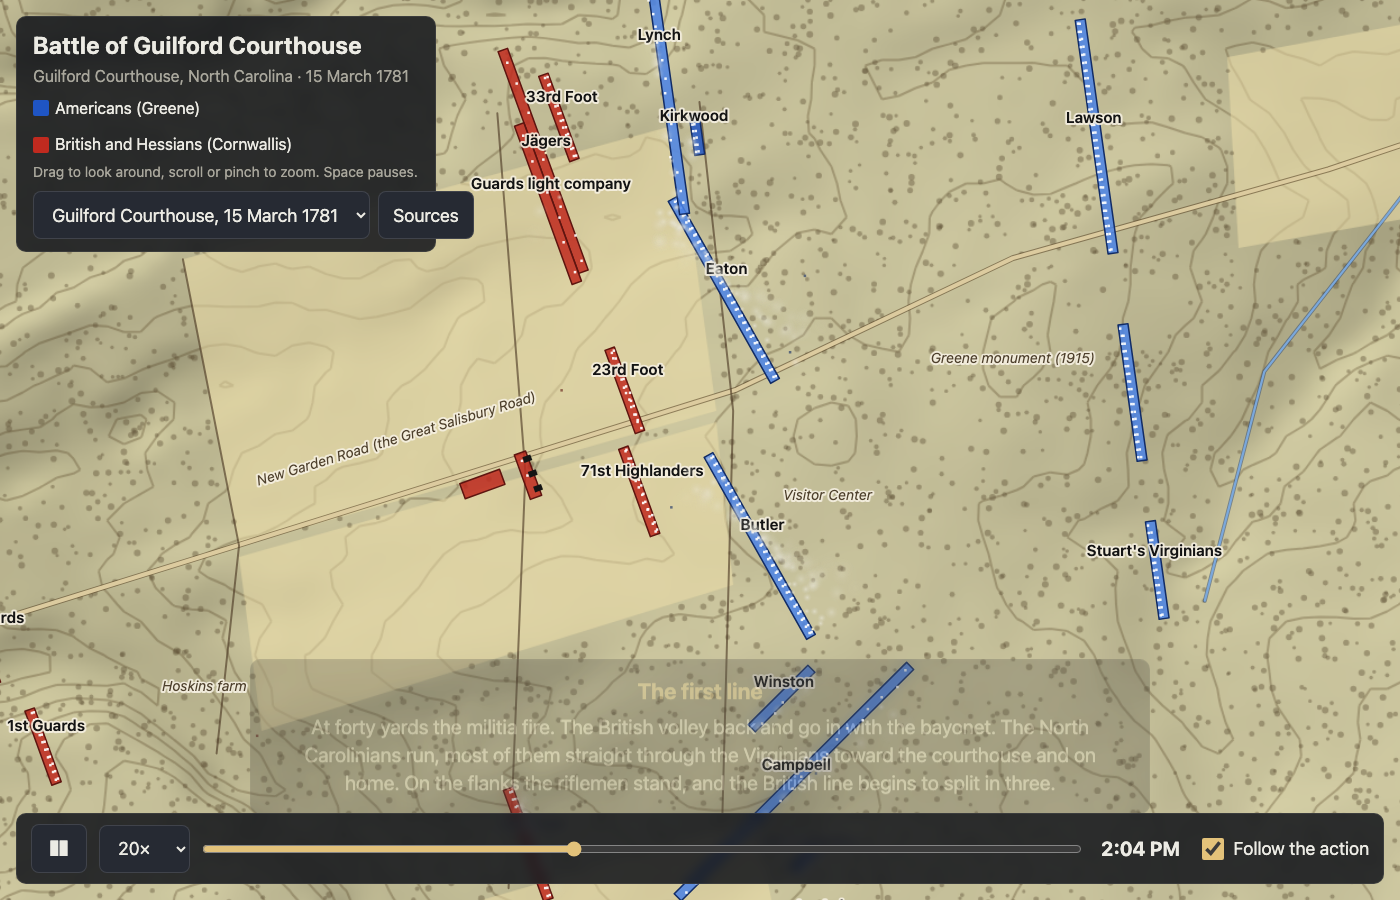
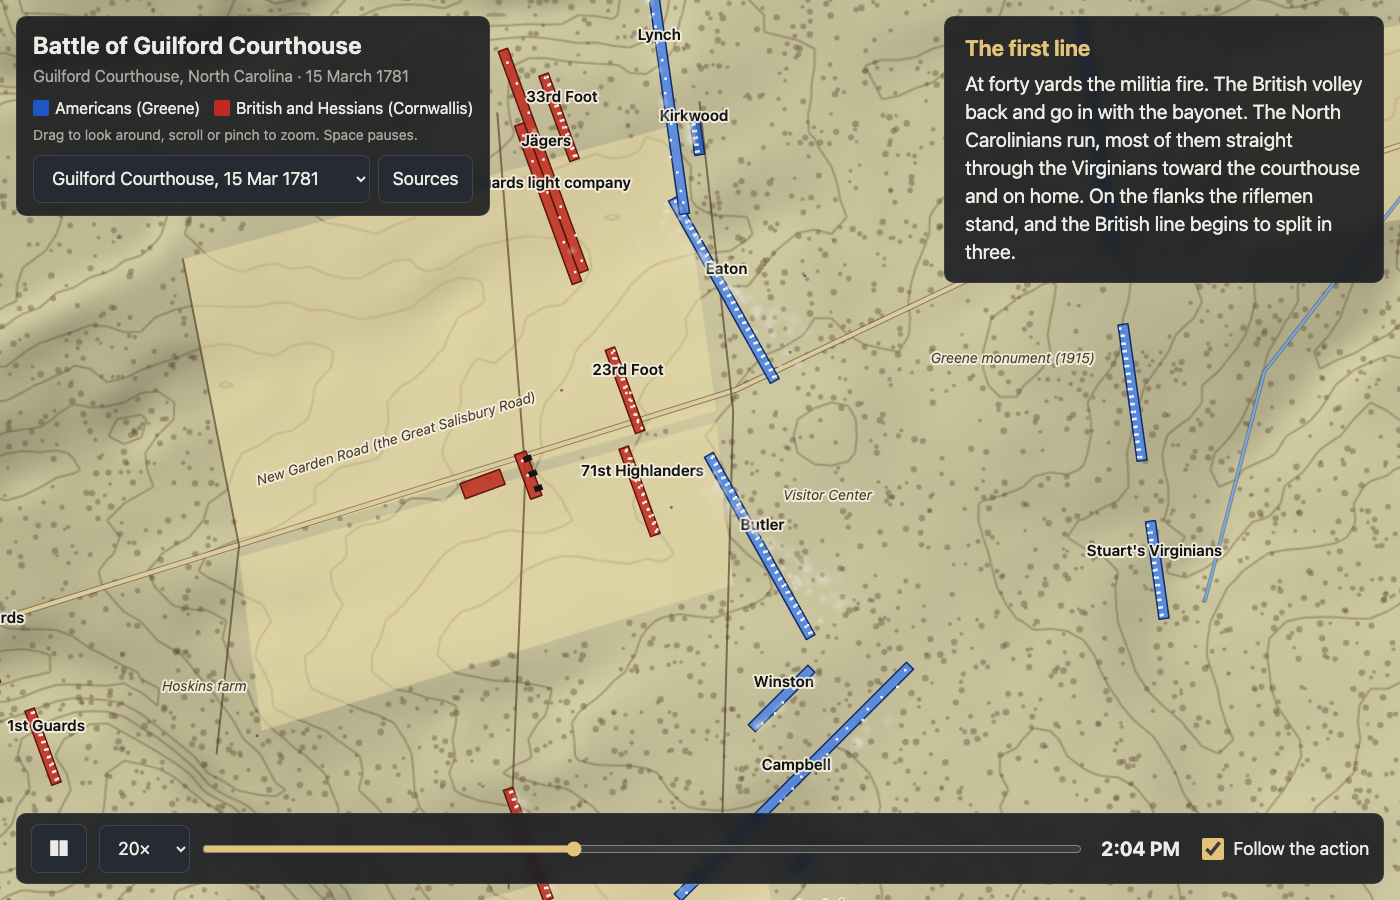
Group the selector by war, story panel top right
- battles/index.json gains date and war; the selector sorts by date and
  groups by war with optgroups, and the select shrinks to fit the panel.
- The story caption moves from the bottom centre to the top right so the
  battlefield has more room; phones keep it at the bottom.
- The hover card follows the cursor instead of sitting in the top right.
- The warp flag skips the caption fade so screenshots show it opaque.
- README screenshots regenerated; two unreferenced ones removed.

Claude-Session: https://claude.ai/code/session_01US5GXUxojnCZWhZHcue3aU

diff --git a/index.html b/index.html
@@ -12,7 +12,7 @@
   #map { position: fixed; inset: 0; touch-action: none; cursor: grab; }
   #map:active { cursor: grabbing; }
   .panel { position: fixed; background: var(--panel); border: 1px solid rgba(255,255,255,0.08); border-radius: 10px; backdrop-filter: blur(6px); }
-  #top { left: 16px; top: 16px; padding: 12px 16px; max-width: min(420px, calc(100vw - 32px)); }
+  #top { left: 16px; top: 16px; padding: 12px 16px; max-width: min(490px, calc(100vw - 32px)); }
   #top h1 { margin: 0; font-size: 24px; font-weight: 650; letter-spacing: 0.01em; }
   #sub { color: var(--muted); font-size: 16px; margin-top: 2px; }
   #hint { color: var(--muted); font-size: 14px; margin-top: 6px; }
@@ -20,12 +20,14 @@
   #legend span { display: inline-flex; align-items: center; gap: 6px; }
   #legend i { width: 16px; height: 16px; border-radius: 2px; display: inline-block; }
   #top .row { display: flex; gap: 8px; margin-top: 10px; align-items: center; }
+  #top .row select { flex: 1; min-width: 0; }
   select, button { font: inherit; color: var(--ink); background: #262a33; border: 1px solid rgba(255,255,255,0.12); border-radius: 8px; padding: 8px 14px; min-height: 48px; }
   button { cursor: pointer; }
   button:hover, select:hover { background: #30353f; }
-  #hover { right: 16px; top: 16px; padding: 12px 16px; font-size: 17px; line-height: 1.45; max-width: 340px; pointer-events: none; }
-  #caption { left: 50%; bottom: 92px; transform: translateX(-50%) translateY(8px); width: min(900px, calc(100vw - 32px)); padding: 16px 24px; opacity: 0; transition: opacity 0.4s, transform 0.4s; text-align: center; }
-  #caption.show { opacity: 1; transform: translateX(-50%); }
+  #hover { padding: 12px 16px; font-size: 17px; line-height: 1.45; width: 340px; pointer-events: none; }
+  #caption { right: 16px; top: 16px; transform: translateY(-8px); width: min(440px, calc(100vw - 32px)); max-height: calc(100vh - 120px); overflow-y: auto; padding: 16px 20px; opacity: 0; transition: opacity 0.4s, transform 0.4s; }
+  #caption.show { opacity: 1; transform: none; }
+  .nofade #caption { transition: none; }
   #cap-title { font-weight: 650; font-size: 22px; color: var(--accent); }
   #cap-text { font-size: 20px; margin-top: 6px; }
   #bar { left: 16px; right: 16px; bottom: 16px; padding: 10px 14px; display: flex; align-items: center; gap: 12px; }
@@ -41,11 +43,11 @@
   @media (max-width: 640px) {
     #top { left: 12px; right: 12px; top: 12px; max-width: none; padding: 10px 12px; }
     #top h1 { font-size: 18px; } #sub { font-size: 14px; } #hint, #legend { display: none; }
-    #top .row select { flex: 1; min-width: 0; } select, button { min-height: 44px; padding: 6px 10px; font-size: 16px; }
+    select, button { min-height: 44px; padding: 6px 10px; font-size: 16px; }
     #hover { display: none; }
     #bar { left: 12px; right: 12px; bottom: 12px; gap: 8px; padding: 8px 10px; } #bar label span { display: none; }
     #play { width: 48px; min-width: 48px; font-size: 20px; } #clock { min-width: 72px; font-size: 17px; }
-    #caption { bottom: 88px; padding: 10px 14px; } #cap-title { font-size: 18px; } #cap-text { font-size: 16px; }
+    #caption { top: auto; bottom: 88px; left: 12px; right: 12px; width: auto; max-height: 40vh; padding: 10px 14px; } #cap-title { font-size: 18px; } #cap-text { font-size: 16px; }
   }
 </style>
 </head>

diff --git a/app.js b/app.js
@@ -39,6 +39,7 @@ async function loadBattle(id) {
   const [, , at, play, warp] = location.hash.match(/^#([^@,]*)(?:@([^,]+))?(,play)?(,warp)?$/) ?? [];
   seek(at ? parseTime(at) : b.startT);
   if (play) setPlaying(true);
+  document.body.classList.toggle('nofade', !!warp); // screenshots: skip the caption fade
   if (warp) for (let i = 0; i < 300; i++) step(1 / 60); // five seconds of frames for screenshots
   location.hash = id;
 }
@@ -356,6 +357,10 @@ function updateHud() {
     if (d < bd) { bd = d; best = u; }
   }
   ui.hover.hidden = !best;
+  if (best) { // tooltip beside the cursor, flipped to the left near the right edge
+    ui.hover.style.left = mouse[0] + 360 > W ? `${mouse[0] - 360}px` : `${mouse[0] + 20}px`;
+    ui.hover.style.top = `${Math.min(mouse[1] + 20, H - 160)}px`;
+  }
   if (best) ui.hover.innerHTML = `<b>${best.name}</b><br>${best.commander ? best.commander + '<br>' : ''}${B.sides[best.side].name} · ${best.type.replace('_', ' ')}<br>${Math.round(best.pose.strength)} men · ${STATE_TEXT[best.pose.state] ?? ''}`;
 }
 
@@ -393,8 +398,12 @@ function frame(now) {
 }
 
 for (const s of SPEEDS) ui.speed.add(new Option(`${s}×`, s));
-const list = await (await fetch('battles/index.json')).json();
-for (const b of list) ui.battle.add(new Option(b.name, b.id));
+const list = (await (await fetch('battles/index.json')).json()).sort((a, b) => a.date.localeCompare(b.date));
+const groups = new Map(); // one optgroup per war, in order of each war's first battle
+for (const b of list) {
+  if (!groups.has(b.war)) { const g = document.createElement('optgroup'); g.label = b.war; groups.set(b.war, g); ui.battle.add(g); }
+  groups.get(b.war).append(new Option(b.name, b.id));
+}
 const want = location.hash.slice(1).split('@')[0];
 ui.battle.value = list.some(b => b.id === want) ? want : list[0].id;
 await loadBattle(ui.battle.value);

diff --git a/README.md b/README.md
@@ -29,7 +29,8 @@ logic. `#cowpens@07:45` opens a battle at a time of day; `#cowpens@07:45,play` s
 
 ## Add a battle
 
-1. Add `battles/<id>/battle.json` and list the id in `battles/index.json`. Each existing battle is
+1. Add `battles/<id>/battle.json` and list it in `battles/index.json` with `id`, `name`, `date`
+   (ISO) and `war`; the selector sorts by date and groups by war. Each existing battle is
    generated by its `make.py`, which is the easier way to author a timeline: edit it, run it, check.
 2. Fetch terrain: `python3 tools/fetch_terrain.py LAT LON HALF_METRES COLS battles/<id>/terrain.json`.
    HALF_METRES must be half of `extent` in battle.json. US battlefields come from USGS 3DEP at 10 m.
